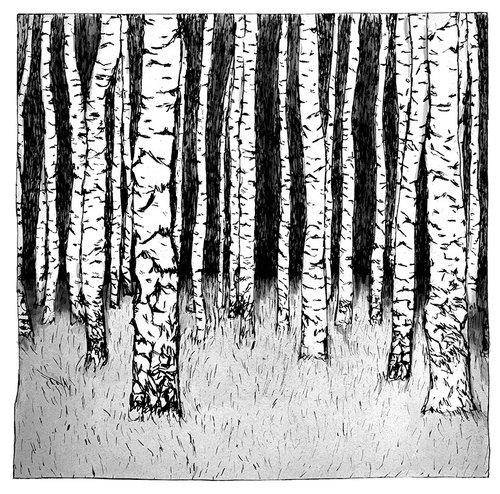
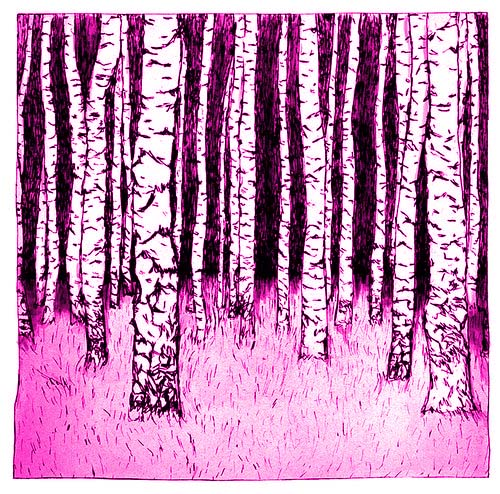
css-pink

diff --git a/styleproject_p1.css b/styleproject_p1.css
@@ -1,50 +1,77 @@
-.blackbox {
 
-background-color:black; 
-         width:500px; 
-         height:500px; 
+body {
+    background-color: #000000; 
+    
+
+}
+
+ .blackbox1 {
+
+background-color:none; 
+         width:600px; 
+         height:388px; 
          position:relative; 
-         top:10px; 
-         left:80px; 
+          top:100px; 
+         left:200px; 
          z-index:2;
          }
 
-         .blackbox2 {
+.blackbox2 {
+
+background-color:white; 
+         width:600px; 
+         height:388px; 
+         position:relative; 
+         top:0px; 
+         left:300px; 
+         z-index:3;
+         }
+
+
+         .blackbox3 {
 
 background-color:black; 
-         width:500px; 
-         height:100px; 
+         width:600px; 
+         height:150px; 
          position:relative; 
-         top:-60px; 
-         left:35px; 
+         top:0px; 
+         left:550px; 
+         z-index:4;
+         }
+
+
+         .nightbox2 {
+
+background-color:black; 
+         width:600px; 
+         height:165px; 
+         position:relative; 
+         top:50px; 
+         left:100px; 
          z-index:1;
          }
 
-                  .blackbox3 {
-
-background-color:black; 
-         width:500px; 
-         height:100px; 
-         position:relative; 
-          top:-220px; 
-         left:120px; 
-         z-index:3;
-         }
+          a {
+    color: magenta;
+}       
 
          p {
 
    font-family:Cedarville Cursive;
 
-      font-size: 20px;
+      font-size: 35px;
 
       font-weight: lighter;
-      color: #ffffff;
-      text-align: center;
-      padding:0px 0px 0px 0px;
+      color: magenta;
+      text-align: left;
+      padding:20px 50px 20px 50px;
 
 }
 
-      
+      .white {
+         color: magenta;
+
+      }
       
       
       

diff --git a/page_2.html b/page_2.html
@@ -1,15 +1,17 @@
 <!DOCTYPE html>
 <html>
 <head>
+	<link rel="stylesheet" type="text/css" href="styleproject_p2.css">
+	<link href="https://fonts.googleapis.com/css?family=Cedarville Cursive" rel="stylesheet" type="text/css">
   <title>The Dark</title>
 </head>
 <body>
-	<body style="background-color:black;">
-<p><font color="white">Hiding in the dark <br/>
-	****************************************************<br/>
-<ul>Hiding in the street 
-********************************************************************
-<strong>And of <a href="./page_3.html"  target="_blank" style="color:#ffffff">what</a> was following me</strong>
-*********************************************************************************************************************************************************************************************************************************************************************************************************</p></font></ul>
+	<body>
+<p>Hiding in the dark <br/>
+	
+Hiding in the street<br/> 
+
+And of <a href="./page_3.html"  target="_blank" >what</a> was following me
+**********************************************</p>
 </body>
 </html>

diff --git a/page_1.html b/page_1.html
@@ -6,20 +6,30 @@
   <title>Child</title>
 </head>
 <body>
+
+
+	<div class="nightbox2"> <p class="white"> When I was a child
+running in the night **********</p></div>
+
+	<div class="blackbox1"><img src="../Project_1/Dark-Drawing-Art.jpg">
+
+</div>
+<div class="blackbox2"><img src="../Project_1/Dark-Drawing-Art.jpg">
+
+</div>
+
+
+
+
+<div class="blackbox3"><p><a href="./page_2.html" target="_blank">afraid of what might be</a> 
 	
 
-	<div class="blackbox"><img src="../Project_1/Dark-Drawing-Art.jpg"></div>
 
-<div class="blackbox2"> <p><i>When I was a child
-running in the night*********************</i></p></div>
-
-<div class="blackbox3"> <p><i>*********************</i></p></div>
+</p></div>
 
 
-<ul><h3><a href="./page_2.html" target="_blank" style="color:#000000">************************************************************************************AFRAID OF WHAT MIGHT BE</a> 
-	
 
 
-</h3></ul>
+
 </body>
 </html>

diff --git a/page_3.html b/page_3.html
@@ -1,11 +1,15 @@
 <!DOCTYPE html>
 <html>
 <head>
+
+
+	<link rel="stylesheet" type="text/css" href="styleproject_p3.css">
+	<link href="https://fonts.googleapis.com/css?family=Cedarville Cursive" rel="stylesheet" type="text/css">
   <title>Hounds of Love</title>
 </head>
-<body style="background-color:black;">
+<body>
 	<a href="./page_4.html" target="_blank">
-<img src="https://pre00.deviantart.net/5f37/th/pre/i/2010/024/6/1/the_basset_hound_by_xx_ashley.jpg" style="max-width:60%;" alt="hounds">
+<img src="./pink_hound.jpg";" class="center"; alt="hounds">
 </a>
 
 </body>

diff --git a/styleproject_p2.css b/styleproject_p2.css
@@ -1,0 +1,24 @@
+body {
+
+background: black url('../Project_1/night.jpg' ) no-repeat;
+margin: 0;
+
+
+}
+
+     p {
+
+   font-family:Cedarville Cursive;
+
+      font-size: 55px;
+
+      font-weight: lighter;
+      color: #ffffff;
+      text-align: left;
+      padding:20px 50px 20px 50px;
+
+}
+
+          a {
+    color: magenta;
+}       

diff --git a/styleproject_p3.css b/styleproject_p3.css
@@ -1,0 +1,16 @@
+body {
+    background-color: #f915bb; 
+
+
+margin: 0;
+    
+
+}
+
+
+img {
+    display: block;
+    margin-left: auto;
+    margin-right: auto;
+    width: 40%;
+}
